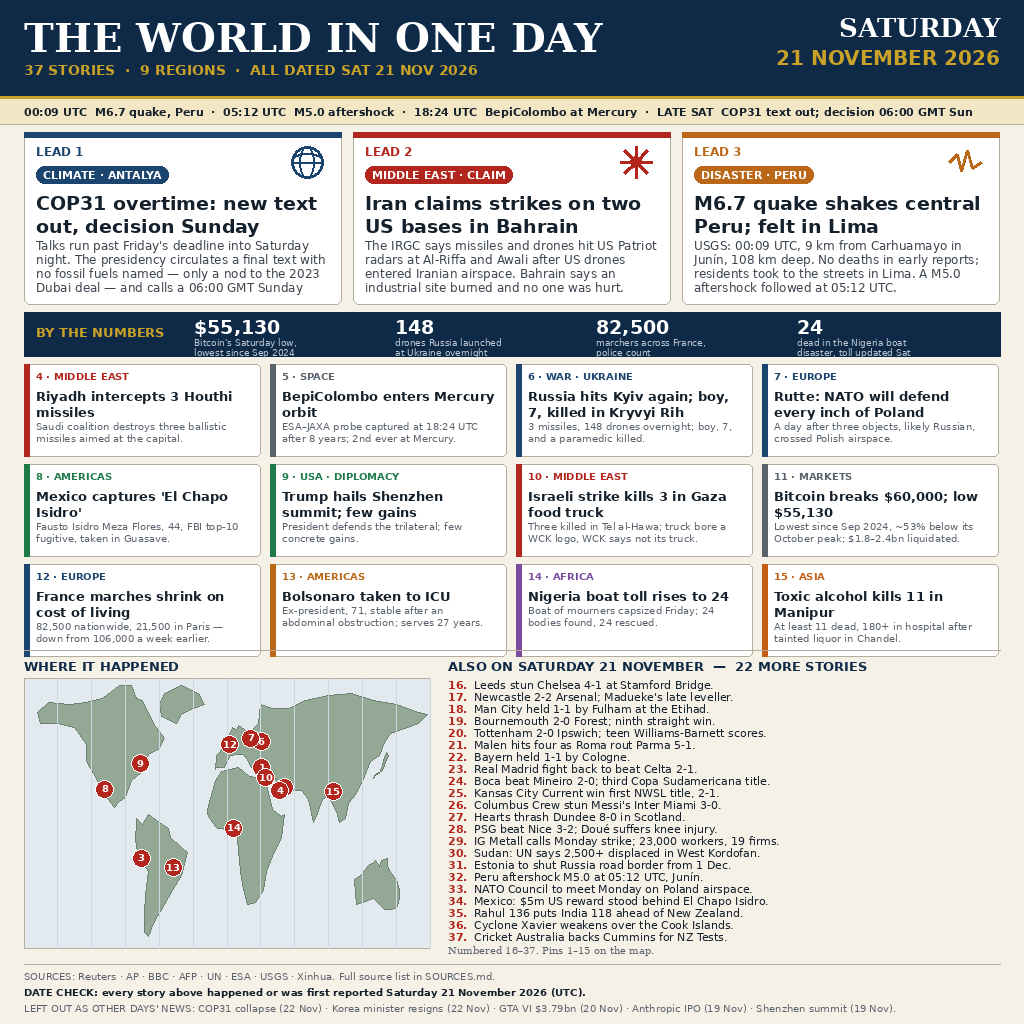
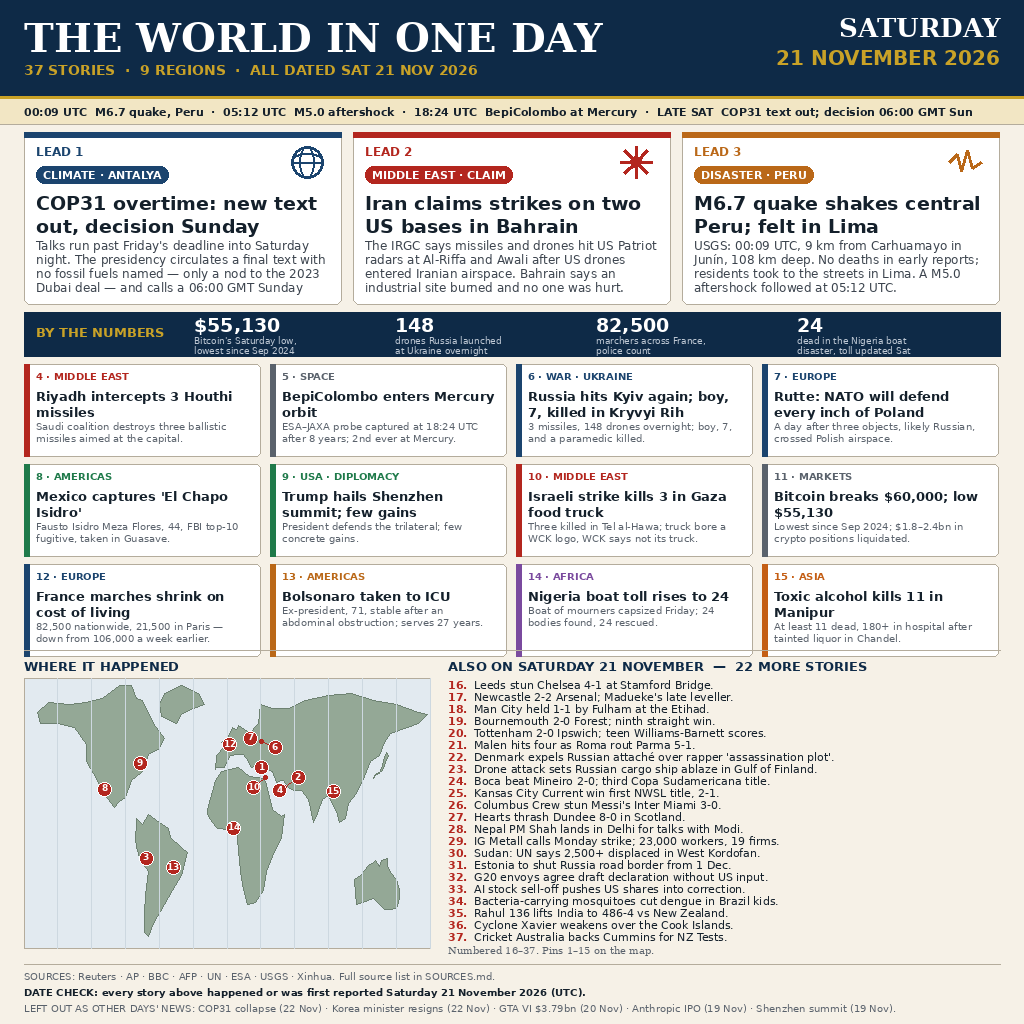
news-image-20261121: fix map pin overlaps, 37 distinct stories, drop unverified numbers

diff --git a/draw_20261121.py b/draw_20261121.py
@@ -2,7 +2,7 @@
 """Render the news-image-20261121 front page (1024x1024 PNG).
 
 Saturday 21 November 2026 in one picture: 37 dated stories, 9 regions.
-3 leads, 12 mains, 21 briefs, a numbered world map, a UTC timeline and a
+3 leads, 12 mains, 22 briefs, a numbered world map, a UTC timeline and a
 BY THE NUMBERS strip. Everything is drawn with PIL from data written in
 this file: no network, no clock, no randomness, so every run writes the
 same bytes.
@@ -95,7 +95,7 @@ MAINS = [
      "Three killed in Tel al-Hawa; truck bore a WCK logo, WCK says not its truck.",
      "MIDDLE EAST", 31.50, 34.47),
     (11, "MARKETS", "Bitcoin breaks $60,000; low $55,130",
-     "Lowest since Sep 2024, ~53% below its October peak; $1.8–2.4bn liquidated.",
+     "Lowest since Sep 2024; $1.8–2.4bn in crypto positions liquidated.",
      "GLOBAL", None, None),
     (12, "EUROPE", "France marches shrink on cost of living",
      "82,500 nationwide, 21,500 in Paris — down from 106,000 a week earlier.",
@@ -118,20 +118,20 @@ BRIEFS = [
     ("Bournemouth 2-0 Forest; ninth straight win.", 50.74, -1.83),
     ("Tottenham 2-0 Ipswich; teen Williams-Barnett scores.", 51.60, -0.07),
     ("Malen hits four as Roma rout Parma 5-1.", 44.80, 10.33),
-    ("Bayern held 1-1 by Cologne.", 48.22, 11.65),
-    ("Real Madrid fight back to beat Celta 2-1.", 40.45, -3.69),
+    ("Denmark expels Russian attaché over rapper 'assassination plot'.", 55.68, 12.57),
+    ("Drone attack sets Russian cargo ship ablaze in Gulf of Finland.", 59.95, 30.31),
     ("Boca beat Mineiro 2-0; third Copa Sudamericana title.", 10.96, -74.80),
     ("Kansas City Current win first NWSL title, 2-1.", 38.87, -77.00),
     ("Columbus Crew stun Messi's Inter Miami 3-0.", 25.76, -80.19),
     ("Hearts thrash Dundee 8-0 in Scotland.", 56.47, -2.99),
-    ("PSG beat Nice 3-2; Doué suffers knee injury.", 43.70, 7.27),
+    ("Nepal PM Shah lands in Delhi for talks with Modi.", 28.61, 77.21),
     ("IG Metall calls Monday strike; 23,000 workers, 19 firms.", 53.55, 10.00),
     ("Sudan: UN says 2,500+ displaced in West Kordofan.", 12.35, 29.25),
     ("Estonia to shut Russia road border from 1 Dec.", 59.38, 28.20),
-    ("Peru aftershock M5.0 at 05:12 UTC, Junín.", -11.16, -75.99),
-    ("NATO Council to meet Monday on Poland airspace.", 50.85, 4.35),
-    ("Mexico: $5m US reward stood behind El Chapo Isidro.", 19.43, -99.13),
-    ("Rahul 136 puts India 118 ahead of New Zealand.", -41.29, 174.78),
+    ("G20 envoys agree draft declaration without US input.", -26.20, 28.05),
+    ("AI stock sell-off pushes US shares into correction.", 40.71, -74.01),
+    ("Bacteria-carrying mosquitoes cut dengue in Brazil kids.", -15.79, -47.88),
+    ("Rahul 136 lifts India to 486-4 vs New Zealand.", -41.29, 174.78),
     ("Cyclone Xavier weakens over the Cook Islands.", -21.24, -159.77),
     ("Cricket Australia backs Cummins for NZ Tests.", -33.87, 151.21),
 ]
@@ -299,9 +299,9 @@ def build():
     seg_w = (W - 48 - 170) // 4
     for i, (val, lab) in enumerate(NUMBERS):
         x = 24 + 170 + i * seg_w
-        d.text((x, num_y + 4), val, font=F_B(19), fill=(255, 255, 255))
+        d.text((x, num_y + 2), val, font=F_B(19), fill=(255, 255, 255))
         for j, lab_line in enumerate(lab.split("\n")):
-            d.text((x, num_y + 25 + j * 10), lab_line, font=F_R(9),
+            d.text((x, num_y + 23 + j * 10), lab_line, font=F_R(9),
                    fill=(190, 200, 212))
 
     # ---- mains grid ------------------------------------------------------
@@ -352,11 +352,21 @@ def build():
             if lat is not None]
     pins += [(n, lat, lon) for (n, _k, _h, _s, _r, lat, lon) in MAINS
              if lat is not None]
+    # Pin offsets (px) for crowded spots: a leader line joins the offset
+    # pin to its true point. 2/4 (Bahrain/Riyadh), 6/7 (Kyiv/Warsaw) and
+    # 1/10 (Antalya/Gaza) would otherwise sit on top of each other; 3 is
+    # nudged onto the Peruvian coast.
+    PIN_DXDY = {2: (14, -10), 3: (5, 0), 6: (14, 6), 10: (-12, 10)}
     for n, lat, lon in pins:
         px, py = project(lon, lat)
-        d.ellipse([px - 9, py - 9, px + 9, py + 9], fill=RED,
+        dx, dy = PIN_DXDY.get(n, (0, 0))
+        cx, cy = px + dx, py + dy
+        if (dx, dy) != (0, 0):
+            d.line([px, py, cx, cy], fill=RED, width=1)
+            d.ellipse([px - 2, py - 2, px + 2, py + 2], fill=RED)
+        d.ellipse([cx - 7, cy - 7, cx + 7, cy + 7], fill=RED,
                   outline=(255, 255, 255), width=1)
-        d.text((px, py - 1), str(n), font=F_B(10), fill=(255, 255, 255),
+        d.text((cx, cy - 1), str(n), font=F_B(9), fill=(255, 255, 255),
                anchor="mm")
 
     # briefs column

diff --git a/SOURCES.md b/SOURCES.md
@@ -83,6 +83,20 @@ labelled CLAIM in the image and attributed to the claimant below.
   https://gsmglobalnews.com/article/d20261120-bfrc4.html
 - Estonia to shut Russia road border from 1 Dec (decided 20 Nov, reported
   21 Nov): https://kyiv.mfa.ee/en/2026/11/foreign-minister-tsahkna-on-border-closure-russias-hostile-activities-against-estonia-and-europe-have-consequences/
+- G20 envoys agree draft leaders' declaration, drawn up without US input
+  (reported Friday 21 Nov):
+  https://trends.glance.com/story/articles/International/IN/en/cnbc-tv18/s-8a90979888-038b72df-7fc2-518b-844f-089fac9f77eb
+- AI stock sell-off pushes US shares into correction (Saturday):
+  https://oneturn.news/day/2026-11-21/
+- Bacteria-carrying mosquitoes cut dengue cases among children in Brazil
+  (reported Saturday): https://oneturn.news/day/2026-11-21/
+- Denmark expels Russian defence attaché over a "rapper assassination
+  plot" (Saturday): https://www.sevenlights.org/categories/global/
+- Drone attack sets Russian cargo ship ablaze in Gulf of Finland
+  (Saturday): https://www.sevenlights.org/categories/global/
+  and https://www.standardtopic.com/archive/world
+- Nepal PM Shah lands in Delhi for talks with Modi (Saturday):
+  https://www.standardtopic.com/archive/world
 - NATO Council to meet Monday 23 Nov on Poland:
   https://www.reuters.com/world/nato-will-defend-every-inch-polish-territory-rutte-says-2026-11-21/
 - Rahul 136, India 486-4 vs New Zealand, Wellington, close of play

diff --git a/README.md b/README.md
@@ -21,9 +21,9 @@ all dated Saturday 21 November 2026**:
 - **A numbered world map** (pins 1–15), a **UTC timeline** strip (00:09 UTC
   Peru quake, 05:12 UTC aftershock, 18:24 UTC BepiColombo, late-Saturday
   COP31 text), a **BY THE NUMBERS** strip, and **22 more one-line
-  briefs** — football results, an IG Metall strike call, Sudan
-  displacement, Estonia's border shutdown, the Peru aftershock, and
-  cricket in Wellington.
+  briefs** — football results, a G20 draft declaration, an AI stock
+  sell-off, dengue mosquitoes in Brazil, an IG Metall strike call, Sudan
+  displacement, Estonia's border shutdown, and cricket in Wellington.
 - **Date discipline, printed on the page**: a DATE CHECK line states every
   story happened or was first reported on 21 November 2026, and a LEFT OUT
   line names the big stories that belong to other days (the COP31 collapse
